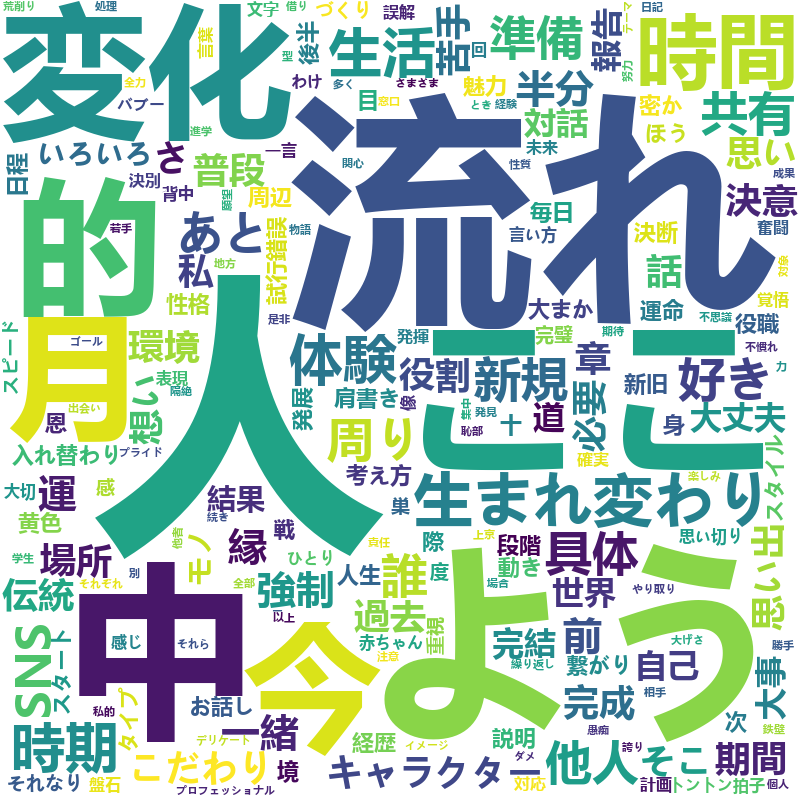
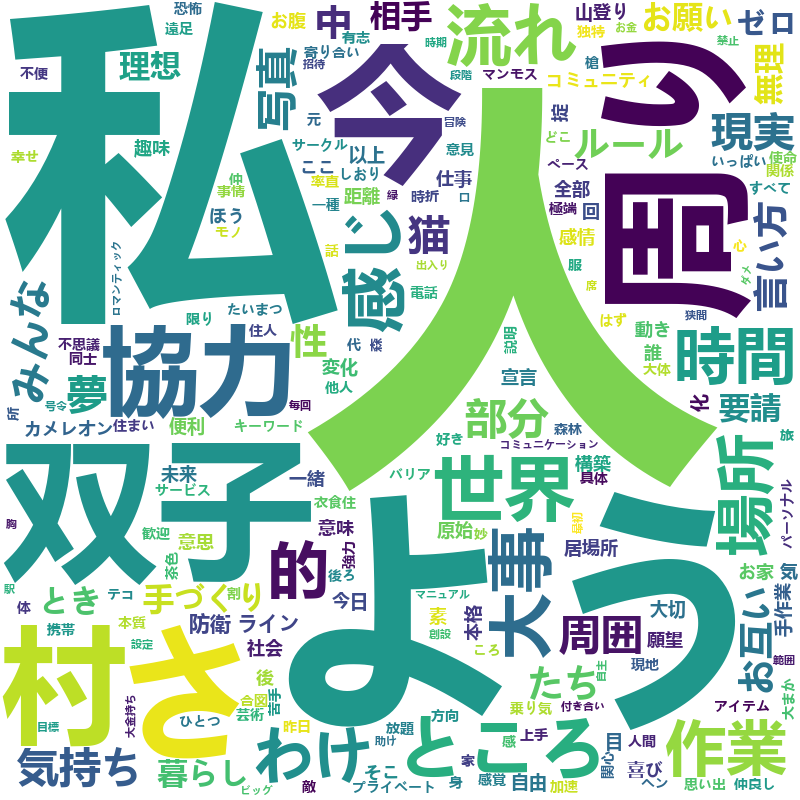
星座・西暦・上半期下半期を質問するようにした

diff --git a/main.py b/main.py
@@ -1,56 +1,73 @@
+import requests, os
 from bs4 import BeautifulSoup
 from janome.tokenizer import Tokenizer
 from wordcloud import WordCloud
 from collections import Counter
-import requests
-import tkinter as tk
-import os
 
-root = tk.Tk()
-root.geometry('300x250')
-root.title('星座を選択してください')
 
-#ラジオボタンの作成
-radio_value = tk.IntVar()
-radio_value.set(0)
+#星座を選択
+def selectHoroscope():
 
-tk.Radiobutton(value=0, variable=radio_value, text='牡羊座').place(x=10, y=20)
-tk.Radiobutton(value=1, variable=radio_value, text='牡牛座').place(x=10, y=40)
-tk.Radiobutton(value=2, variable=radio_value, text='双子座').place(x=10, y=60)
-tk.Radiobutton(value=3, variable=radio_value, text='蟹座').place(x=10, y=80)
-tk.Radiobutton(value=4, variable=radio_value, text='獅子座').place(x=10, y=100)
-tk.Radiobutton(value=5, variable=radio_value, text='乙女座').place(x=10, y=120)
-tk.Radiobutton(value=6, variable=radio_value, text='天秤座').place(x=100, y=20)
-tk.Radiobutton(value=7, variable=radio_value, text='蠍座').place(x=100, y=40)
-tk.Radiobutton(value=8, variable=radio_value, text='射手座').place(x=100, y=60)
-tk.Radiobutton(value=9, variable=radio_value, text='山羊座').place(x=100, y=80)
-tk.Radiobutton(value=10, variable=radio_value, text='水瓶座').place(x=100, y=100)
-tk.Radiobutton(value=11, variable=radio_value, text='魚座').place(x=100, y=120)
+    #占い結果を出す西暦と星座を質問する
+    checkYear = input('西暦を指定してください\n\n')
+    checkHalfPeriod = input('上半期・下半期を選択してください\n\n上半期 : 1\n下半期 : 2\n\n')
+    checkHoroscope = input('星座を選択してください\n\n牡羊座 : 1\n牡牛座 : 2\n双子座 : 3\n蟹　座 : 4\n獅子座 : 5\n乙女座 : 6\n天秤座 : 7\n蠍　座 : 8\n射手座 : 9\n山羊座 : 10\n水瓶座 : 11\n魚　座 : 12\n\n')
 
-def check_value():
-    check_value=radio_value.get()
-    print(check_value)
-    return check_value
+    #URL生成    
+    baseUrl = "https://voguegirl.jp/horoscope/shiitake{}-h{}/contents/".format(checkYear, checkHalfPeriod)
 
-tk.Button(text="決定",command=check_value).place(x=100, y=180)
-tk.mainloop()
+    if checkHoroscope == '1':
+        #牡羊座
+        load_url = baseUrlbaseUrl + "01aries"
+    elif checkHoroscope == '2':
+        #牡牛座
+        load_url = baseUrl + "02taurus"
+    elif checkHoroscope == '3':
+        #双子座
+        load_url = baseUrl + "03gemini"
+    elif checkHoroscope == '4':
+        #蟹　座
+        load_url = baseUrl + "04cancer"
+    elif checkHoroscope == '5':
+        #獅子座
+        load_url = baseUrl + "05leo"
+    elif checkHoroscope == '6':
+        #乙女座
+        load_url = baseUrl + "06virgo"
+    elif checkHoroscope == '7':
+        #天秤座
+        load_url = baseUrl + "07libra"
+    elif checkHoroscope == '8':
+        #蠍　座
+        load_url = baseUrl + "08scorpio"
+    elif checkHoroscope == '9':
+        #射手座
+        load_url = baseUrl + "09sagittarius"
+    elif checkHoroscope == '10':
+        #山羊座
+        load_url = baseUrl + "10capricorn"
+    elif checkHoroscope == '11':
+        #水瓶座
+        load_url = baseUrl + "11aquarius"
+    elif checkHoroscope == '12':
+        #魚　座
+        load_url = baseUrl + "12pisces"
+    else:
+        print('1～12の番号で入力してください')
+        exit()
+    return load_url
+
 
 #スクレイピングして占いの文章のみ抽出
 def scraping():
-    if check_value() == 0:
-        load_url = "https://voguegirl.jp/horoscope/shiitake2021-h2/contents/02taurus/"
-    elif check_value() == 1:
-        load_url = "https://voguegirl.jp/horoscope/shiitake2021-h2/contents/02taurus/"
-    else:
-        load_url = "https://voguegirl.jp/horoscope/shiitake2021-h2/contents/02taurus/"
-
-    html  = requests.get(load_url)
+    html  = requests.get(selectHoroscope())
     soup  = BeautifulSoup(html.content, "html.parser")
     str_list  = [n.get_text() for n in soup.select('section.textbody p')]
     sentence = ''
     for i in str_list:
         sentence += i
     return sentence
+
 
 #WordCloudでテキストマイニングを生成させる
 def WordCloudGenerate():
@@ -76,3 +93,4 @@ def WordCloudGenerate():
 
 if __name__ == '__main__':
     WordCloudGenerate()
+

diff --git a/tkinter.py b/tkinter.py
@@ -1,0 +1,39 @@
+# from bs4 import BeautifulSoup
+# from janome.tokenizer import Tokenizer
+# from wordcloud import WordCloud
+# from collections import Counter
+# import requests
+# import tkinter as tk
+# import os
+
+# root = tk.Tk()
+# root.geometry('300x250')
+# root.title('星座を選択してください')
+
+# #ラジオボタンの作成
+# radio_value = tk.IntVar()
+# radio_value.set(0)
+
+# tk.Radiobutton(value=0, variable=radio_value, text='牡羊座').place(x=10, y=20)
+# tk.Radiobutton(value=1, variable=radio_value, text='牡牛座').place(x=10, y=40)
+# tk.Radiobutton(value=2, variable=radio_value, text='双子座').place(x=10, y=60)
+# tk.Radiobutton(value=3, variable=radio_value, text='蟹座').place(x=10, y=80)
+# tk.Radiobutton(value=4, variable=radio_value, text='獅子座').place(x=10, y=100)
+# tk.Radiobutton(value=5, variable=radio_value, text='乙女座').place(x=10, y=120)
+# tk.Radiobutton(value=6, variable=radio_value, text='天秤座').place(x=100, y=20)
+# tk.Radiobutton(value=7, variable=radio_value, text='蠍座').place(x=100, y=40)
+# tk.Radiobutton(value=8, variable=radio_value, text='射手座').place(x=100, y=60)
+# tk.Radiobutton(value=9, variable=radio_value, text='山羊座').place(x=100, y=80)
+# tk.Radiobutton(value=10, variable=radio_value, text='水瓶座').place(x=100, y=100)
+# tk.Radiobutton(value=11, variable=radio_value, text='魚座').place(x=100, y=120)
+
+# def check_value():
+#     check_value=radio_value.get()
+#     print(check_value)
+#     return check_value
+
+# tk.Button(text="決定",command=check_value).place(x=100, y=180)
+# tk.mainloop()
+
+
+
